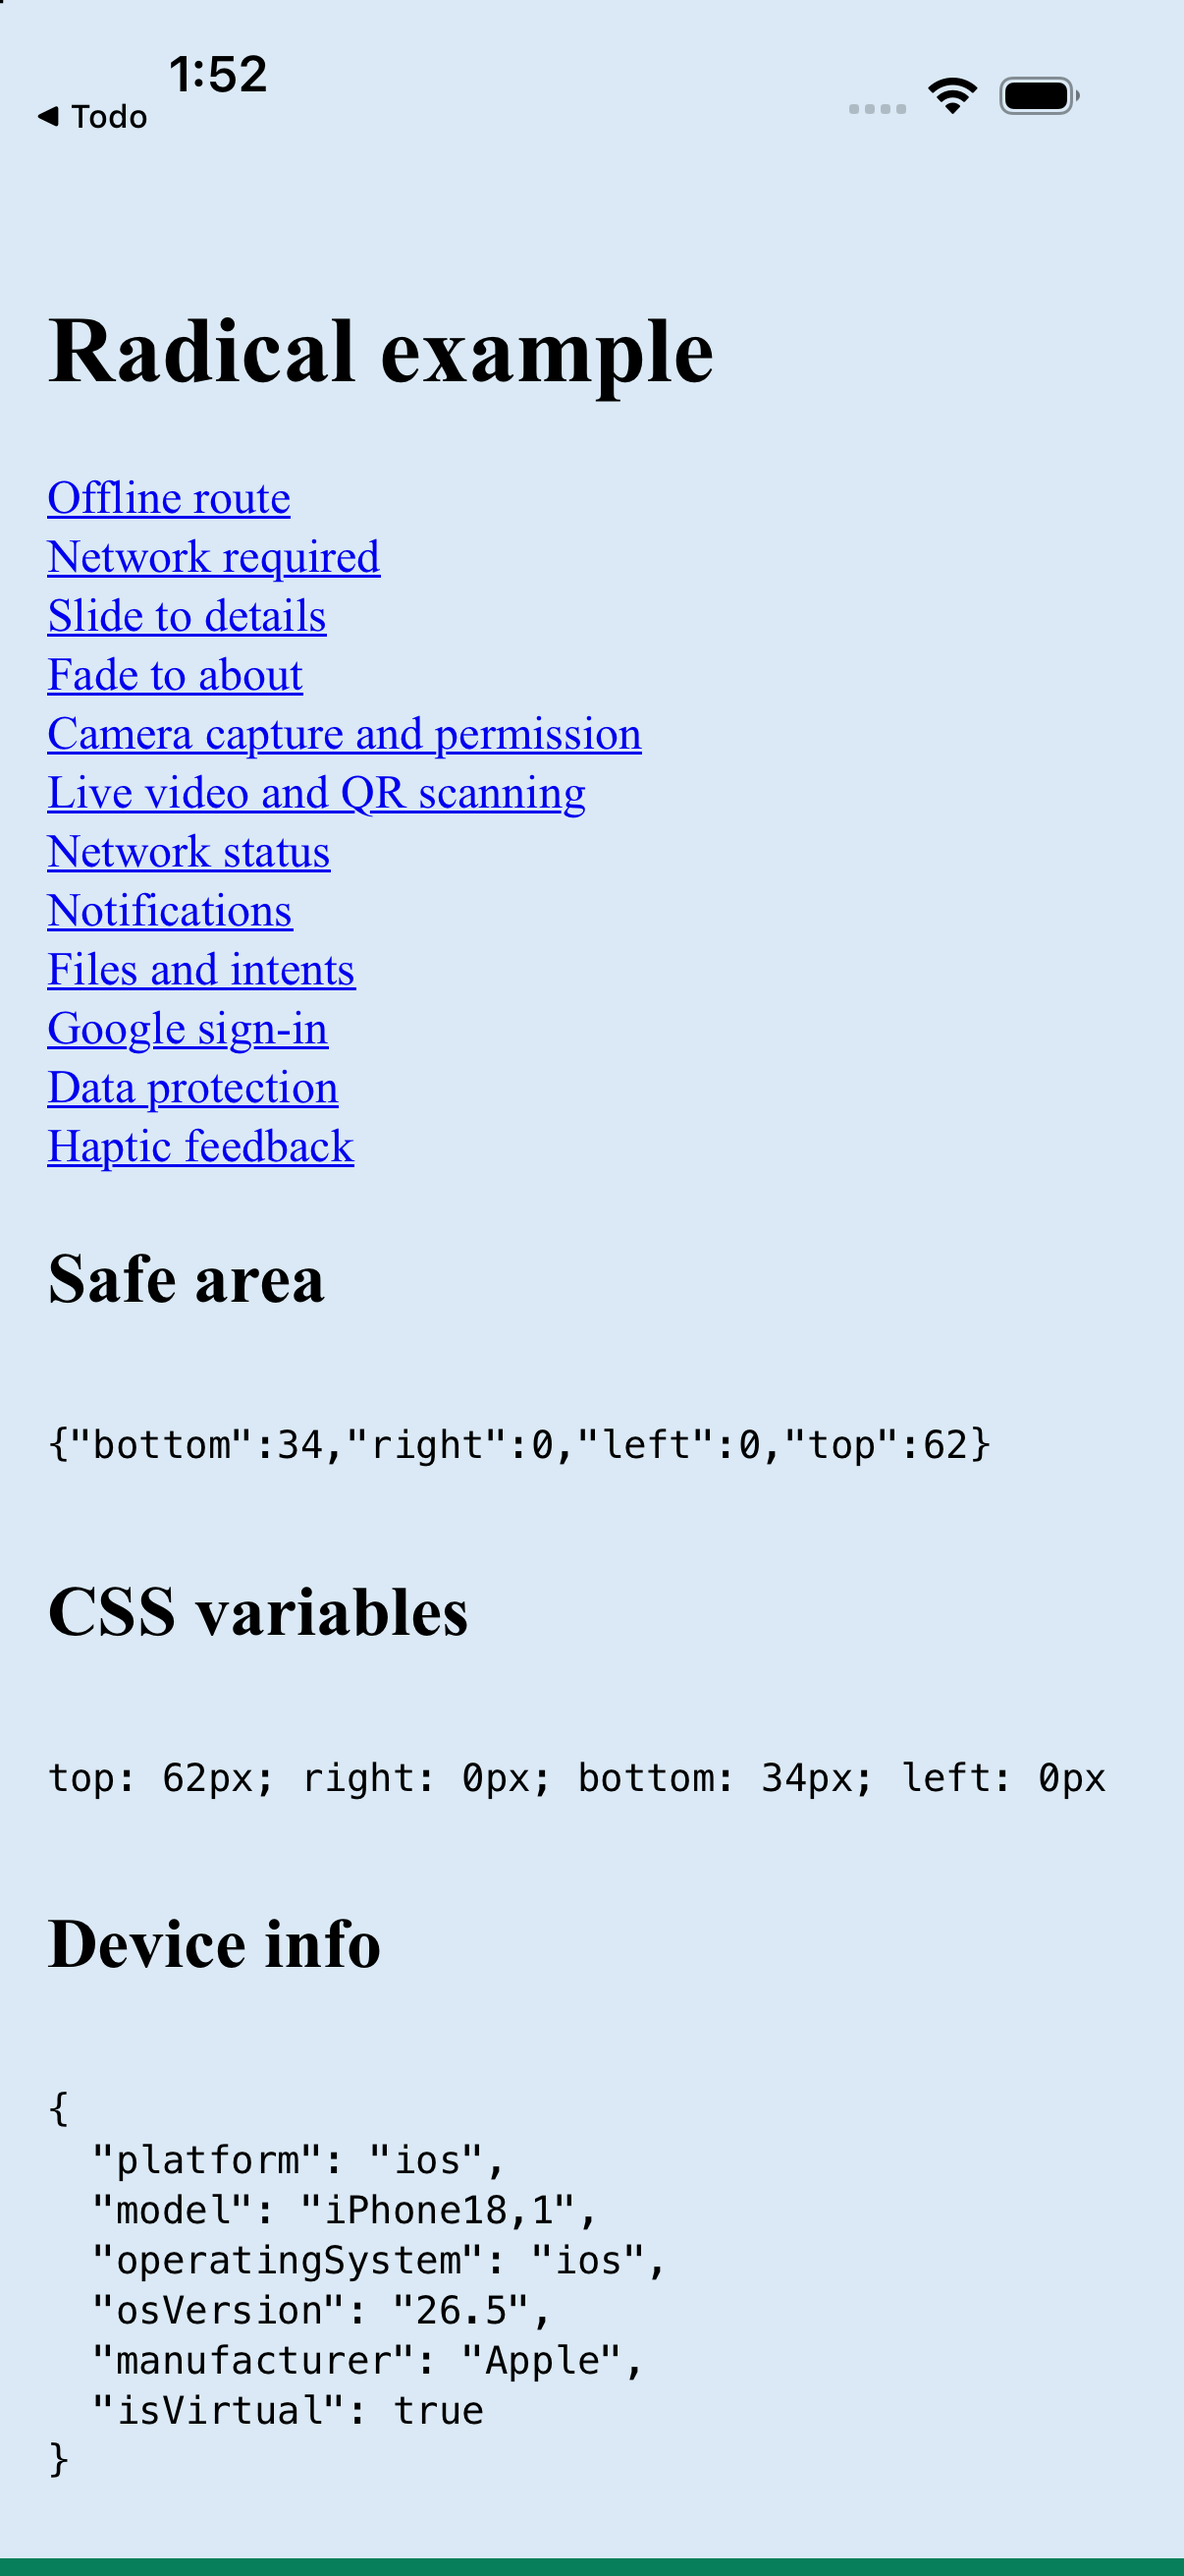
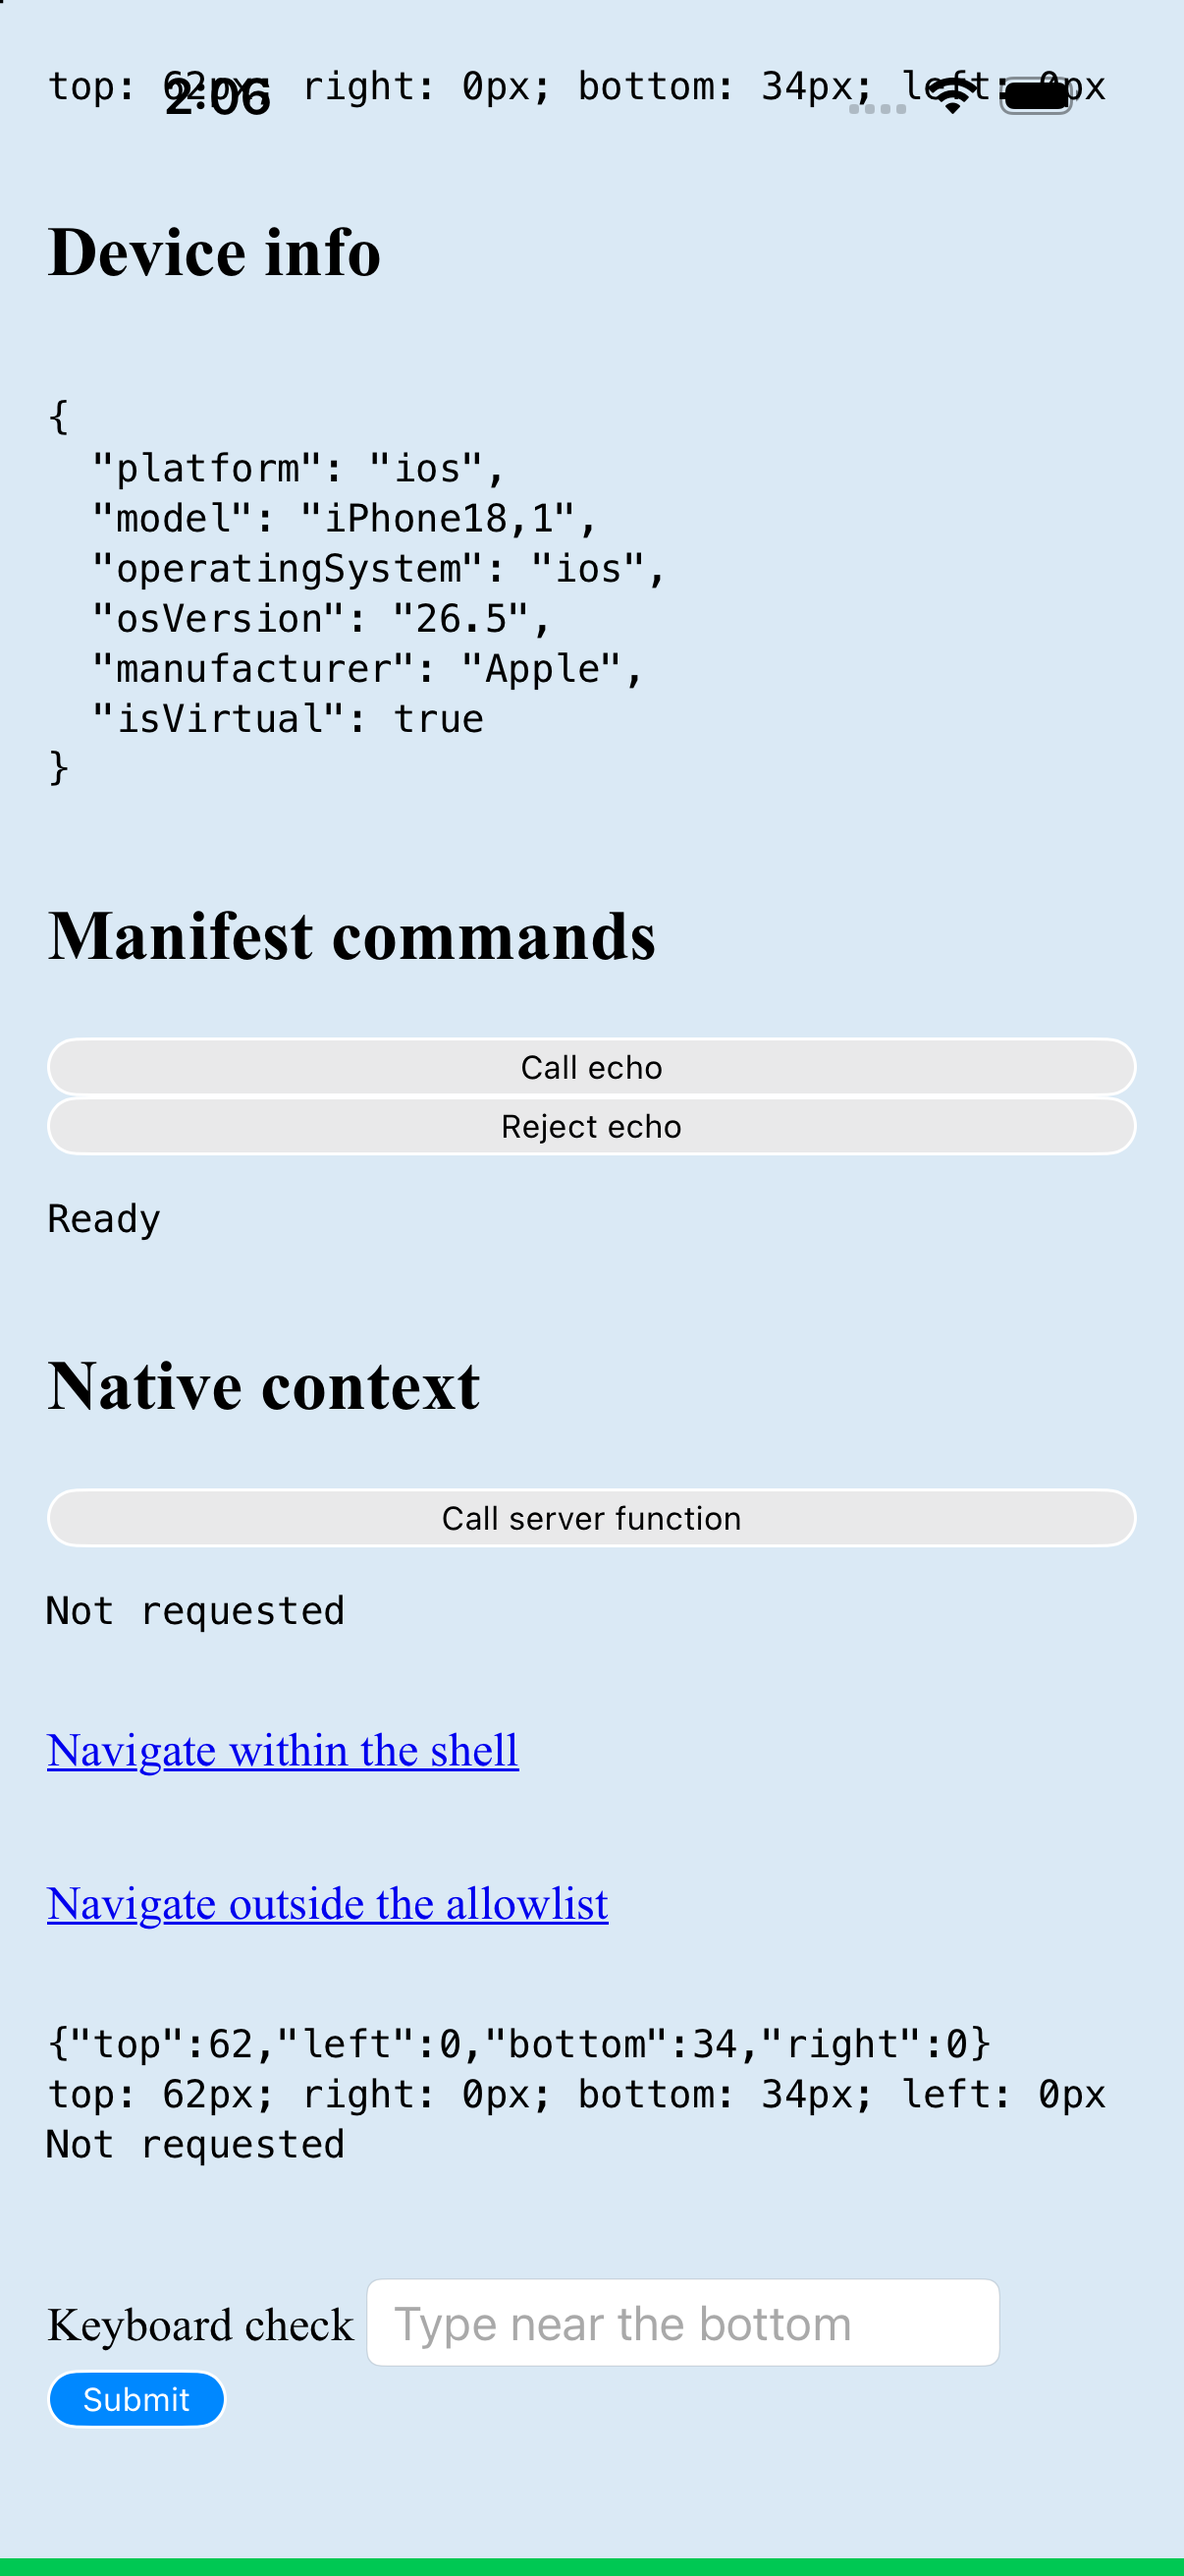
Refresh keyboard insets on layout changes

diff --git a/packages/radical/tests/native/ios/ios-generate.test.ts b/packages/radical/tests/native/ios/ios-generate.test.ts
@@ -338,17 +338,14 @@ describe("iOS shell generation", () => {
   );
 
   it.effect(
-    "emits keyboard-only insets without automatic safe-area adjustment",
+    "emits layout-aware docked keyboard insets without safe-area adjustment",
     () => {
       const state = memory();
 
       return Effect.gen(function* () {
         yield* generate;
         const source = state.files.get(appDelegate) ?? "";
-        assert.notInclude(
-          source,
-          "contentInsetAdjustmentBehavior = .automatic"
-        );
+        assert.notInclude(source, "contentInsetAdjustmentBehavior");
         assert.include(
           source,
           "UIResponder.keyboardWillChangeFrameNotification"
@@ -360,18 +357,36 @@ describe("iOS shell generation", () => {
         );
         assert.include(
           source,
-          "view.convert(frame, from: window.screen.coordinateSpace)"
+          "view.convert(frame, from: screen.coordinateSpace)"
         );
-        assert.include(
-          source,
-          "view.bounds.intersection(keyboardFrame).height"
-        );
+        assert.include(source, "keyboardFrame.maxY >= view.bounds.maxY - 1");
         assert.include(source, "scrollView.contentInset.bottom = height");
         assert.include(
           source,
           "scrollView.verticalScrollIndicatorInsets.bottom = height"
         );
-        assert.include(source, "updateKeyboardInset(0)");
+        assert.include(
+          source,
+          "max(0, view.bounds.maxY - keyboardFrame.minY) : 0"
+        );
+        assert.include(
+          source,
+          "let screen = (notification.object as? UIScreen) ?? window.screen"
+        );
+        assert.include(source, "keyboardEndFrame = frame");
+        assert.include(source, "keyboardScreen = screen");
+        assert.include(
+          source,
+          "screen === window.screen else {\n            updateKeyboardInset(0)"
+        );
+        assert.include(
+          source,
+          "keyboardEndFrame = nil\n        keyboardScreen = nil\n        updateKeyboardInset(0)"
+        );
+        assert.include(
+          source,
+          "super.viewDidLayoutSubviews()\n        laidOut = true\n        updateKeyboardInsetFromLayout()"
+        );
       }).pipe(Effect.provide(state.layer));
     }
   );

diff --git a/packages/radical/templates/ios/RadicalViewController.swift b/packages/radical/templates/ios/RadicalViewController.swift
@@ -13,6 +13,8 @@ final class RadicalViewController: CAPBridgeViewController {
     private var laidOut = false
     private var lastInsets: UIEdgeInsets?
     private var safeAreaScript: WKUserScript?
+    private var keyboardEndFrame: CGRect?
+    private var keyboardScreen: UIScreen?
 
     override func webViewConfiguration(for instanceConfiguration: InstanceConfiguration) -> WKWebViewConfiguration {
         let configuration = super.webViewConfiguration(for: instanceConfiguration)
@@ -67,13 +69,29 @@ final class RadicalViewController: CAPBridgeViewController {
     @objc private func keyboardWillChangeFrame(_ notification: Notification) {
         guard let window = view.window,
               let frame = notification.userInfo?[UIResponder.keyboardFrameEndUserInfoKey] as? CGRect else { return }
-        let keyboardFrame = view.convert(frame, from: window.screen.coordinateSpace)
-        let coveredHeight = view.bounds.intersection(keyboardFrame).height
-        updateKeyboardInset(coveredHeight)
+        let screen = (notification.object as? UIScreen) ?? window.screen
+        keyboardEndFrame = frame
+        keyboardScreen = screen
+        updateKeyboardInsetFromLayout()
     }
 
     @objc private func keyboardWillHide(_ notification: Notification) {
+        keyboardEndFrame = nil
+        keyboardScreen = nil
         updateKeyboardInset(0)
+    }
+
+    private func updateKeyboardInsetFromLayout() {
+        guard let window = view.window,
+              let frame = keyboardEndFrame, let screen = keyboardScreen,
+              screen === window.screen else {
+            updateKeyboardInset(0)
+            return
+        }
+        let keyboardFrame = view.convert(frame, from: screen.coordinateSpace)
+        let coveredHeight = keyboardFrame.maxY >= view.bounds.maxY - 1
+            ? max(0, view.bounds.maxY - keyboardFrame.minY) : 0
+        updateKeyboardInset(coveredHeight)
     }
 
     private func updateKeyboardInset(_ height: CGFloat) {
@@ -85,6 +103,7 @@ final class RadicalViewController: CAPBridgeViewController {
     override func viewDidLayoutSubviews() {
         super.viewDidLayoutSubviews()
         laidOut = true
+        updateKeyboardInsetFromLayout()
         updateSafeArea()
     }
 

diff --git a/docs/verification/safe-area.md b/docs/verification/safe-area.md
@@ -12,32 +12,39 @@ pnpm exec radical ios --target F69D9CE5-20E1-4388-9EBA-27B1782EEF75
 pnpm exec radical ios --target 88BEE7A3-757E-40C4-A789-5E3259B6B673
 ```
 
-The shipped approach uses scroll insets. The controller preserves Capacitor's default `.never`, observes keyboard will-change-frame and will-hide, converts screen coordinates into view coordinates, and applies the covered height to the bottom content and vertical indicator insets. Hide resets both to zero. Observers are removed on deinitialization. WebKit revealed the field and Submit on the inner display with these insets, so the frame-resize fallback was unnecessary. Safe-area reporting still reads only `view.safeAreaInsets`.
+The shipped approach uses scroll insets. The controller preserves Capacitor's default `.never` and stores the keyboard end frame with the notification's screen, falling back to the window screen. Keyboard notifications and `viewDidLayoutSubviews` both recalculate the covered height in view coordinates. A keyboard on another screen or one that does not reach the bottom produces zero inset. A docked keyboard sets the bottom content and vertical indicator insets to the height between its top and the view's bottom. Hide clears the stored frame and screen and resets both insets to zero. Observers are removed on deinitialization. WebKit revealed the field and Submit on the inner display with these insets, so the frame-resize fallback was unnecessary. Safe-area reporting still reads only `view.safeAreaInsets`.
 
-For verification, the example temporarily added a 6 px green `position: fixed; bottom: 0` marker and repeated its hook, CSS, and server cookie diagnostics immediately above the existing bottom form. Focusing the field requested the server context after one second, while the keyboard was visible. Those temporary page edits were restored after capture. The non-white page background is the example's existing `#dae9f5`.
+For verification, the example temporarily added a 6 px green `position: fixed; bottom: 0` marker and repeated its hook, CSS, and server cookie diagnostics immediately above the existing bottom form. Focusing the field requested the server context after one second, while the keyboard was visible. The server request was allowed to settle before repeating focus, so changing diagnostic text did not move the form during the keyboard check. Those temporary page edits were restored after capture. The non-white page background is the example's existing `#dae9f5`.
 
-- **Pass:** iPhone 17 Pro has no white strip under the home indicator. The fixed green marker reaches the bottom screen edge.
+- **Pass:** iPhone 17 Pro has no white strip under the home indicator. The page is scrolled to the bottom form, and the fixed green marker reaches the bottom screen edge.
 - **Pass:** Duo inner display, 951 × 669 points, reveals both the focused field and Submit above the keyboard.
 - **Pass:** Duo cover portrait, 466 × 678 points, reveals the focused field and Submit above the keyboard.
-- **Not run:** Duo cover landscape. Both `orientation landscape-left` and `orientation landscape-right` reported success, but display 1 remained 1398 × 2034 pixels with the portrait keyboard. The attempted-rotation capture below is evidence of this limitation, not a landscape pass.
+- **Not run:** Duo cover landscape. The round 2 Device-menu retry could not run because this Xcode installation has no Simulator app at `/Applications/Xcode.app/Contents/Developer/Applications/Simulator.app`, and AppleScript could not find a Simulator process. In round 1, both `orientation landscape-left` and `orientation landscape-right` reported success, but display 1 remained 1398 × 2034 pixels with the portrait keyboard. The attempted-rotation capture below is evidence of this limitation, not a landscape pass.
 - **Pass:** dismissing the inner-display keyboard restores the full page without a bottom gap.
+- **Pass:** folding from inner to cover with the keyboard open preserves focus and keeps the field and Submit above the keyboard. The cover capture is 1398 × 2034 pixels. Unfolding also preserves focus and keeps both controls above the keyboard, though the page remains scrolled higher than necessary until dismissal. Dismissing after unfolding restores the full background without a gap.
 - **Pass:** inner-display hook, CSS, and the server's cookie-derived context remain `top: 0, right: 84, bottom: 34, left: 0` while the keyboard is open and after dismissal.
 
-The devices were opened in the T3 Device panel and driven with agent-device. Fold commands sent the hinge event but returned `CoreDevice reported no hinge angle sample: Unknown option '--device'`. Panel changes were confirmed from the active screenshot and its dimensions; hinge angles remain unverified. Capture Duo cover with `xcrun simctl io <UDID> screenshot --display=1 <path>` and inner with `--display=3`. The default display can be black on the inactive panel.
+The devices were opened in the T3 Device panel and driven with agent-device. Fold commands sent the hinge event but returned `CoreDevice reported no hinge angle sample: Unknown option '--device'`. Panel changes were confirmed from explicit display screenshots and their dimensions; hinge angles remain unverified. The default Device panel stream was black after folding, while the explicit cover screenshot showed the app and keyboard. Capture Duo cover with `xcrun simctl io <UDID> screenshot --display=1 <path>` and inner with `--display=3`. The default display can be black on the inactive panel.
 
 ![iPhone 17 Pro background and fixed marker reach the bottom edge](safe-area/ios-17-pro-edge-no-strip.png)
 
-![Duo inner field, Submit, and unchanged safe-area diagnostics above the keyboard](safe-area/ios-duo-inner-keyboard-inset.png)
+![Duo inner field and Submit above the keyboard with unchanged server safe-area values](safe-area/ios-duo-inner-keyboard-inset.png)
 
 ![Duo inner after keyboard dismissal with no bottom gap](safe-area/ios-duo-inner-dismissed-no-gap.png)
 
 ![Duo cover portrait field and Submit above the keyboard](safe-area/ios-duo-cover-portrait-keyboard.png)
 
-![Attempted cover landscape rotation still produces a portrait screen](safe-area/ios-duo-cover-landscape-attempt-still-portrait.png)
+![Round 1 attempted cover landscape rotation still produces a portrait screen](safe-area/ios-duo-cover-landscape-attempt-still-portrait.png)
+
+![Duo after folding to the cover with focus and keyboard preserved](safe-area/ios-duo-fold-keyboard-cover.png)
+
+![Duo after unfolding and dismissing the keyboard with no gap](safe-area/ios-duo-unfold-dismissed-no-gap.png)
 
 The earlier `.automatic` fix restored keyboard scrolling but also added UIKit's bottom safe-area inset on top of CSS padding. The explicit keyboard insets replace that setting. The historical regression capture remains available as [the field hidden with no keyboard handling](safe-area/ios-keyboard-before.png).
 
 ## Android keyboard
+
+Verified on 2026-10-20 with Pixel_9, Android 16, using the remote-mode example.
 
 The viewport shrinks from 924 to 588 CSS pixels. The focused input ends at 550.87 and Submit ends at 572.30, both above the keyboard. The hook and CSS bottom inset become zero during input and return to 24 after dismissal. The body background extends under the system bars, and the WebView starts at window coordinate zero. Neither platform logged a hydration warning on the fresh CLI runs. Rebuilding the library while the Android keyboard inset changes can still produce a development HMR hydration warning; clean launches after restarting the dev server passed.
 

diff --git a/docs/safe-area.md b/docs/safe-area.md
@@ -18,6 +18,6 @@ On changes, both shells refresh the HttpOnly cookie before publishing a `radical
 
 ## Capacitor inset ownership
 
-Capacitor 8's Android `SystemBars.injectSafeAreaCSS` changes the root element's inline style after page commit. React then sees attributes absent from SSR and reports a hydration mismatch. Generated shells set `plugins.SystemBars.insetsHandling` to `disable`, which disables that injection and Capacitor's inset padding. Radical owns both cookie values and CSS updates. Its Android listener pads the window by the visible IME height, which resizes the WebView so focused controls can scroll above the keyboard. While the IME is visible, the bottom safe area is zero because the keyboard padding already excludes the navigation bar. Closing the keyboard removes that padding and restores the system-bar inset. Keyboard height never enters the cookie. The iOS SystemBars plugin does not inject safe-area styles. Radical keeps Capacitor's default `contentInsetAdjustmentBehavior = .never`. UIKit adds no native safe-area padding, so the page applies that padding once through CSS. The controller observes keyboard frame changes and hide notifications. It converts the keyboard frame from the window screen's coordinate space into the view, then sets the scroll view's bottom content and vertical indicator insets to the intersection height. Hiding the keyboard resets both to zero. The controller removes its observers on deinitialization.
+Capacitor 8's Android `SystemBars.injectSafeAreaCSS` changes the root element's inline style after page commit. React then sees attributes absent from SSR and reports a hydration mismatch. Generated shells set `plugins.SystemBars.insetsHandling` to `disable`, which disables that injection and Capacitor's inset padding. Radical owns both cookie values and CSS updates. Its Android listener pads the window by the visible IME height, which resizes the WebView so focused controls can scroll above the keyboard. While the IME is visible, the bottom safe area is zero because the keyboard padding already excludes the navigation bar. Closing the keyboard removes that padding and restores the system-bar inset. Keyboard height never enters the cookie. The iOS SystemBars plugin does not inject safe-area styles. Radical keeps Capacitor's default `contentInsetAdjustmentBehavior = .never`. UIKit adds no native safe-area padding, so the page applies that padding once through CSS. The controller observes keyboard frame changes and hide notifications. It stores the keyboard's screen and end frame, then converts that screen's coordinates into the view. Notifications and view layout both recalculate the scroll view's bottom content and vertical indicator insets. A keyboard on another screen or a floating keyboard that does not reach the view's bottom produces zero inset. A docked keyboard produces the height between its top and the view's bottom. Hiding the keyboard clears the stored geometry and resets both insets to zero. The controller removes its observers on deinitialization.
 
 The WebView remains the full-window root view. Explicit scroll insets let WebKit reveal the bottom field and Submit on the Duo inner display, so frame resizing is unnecessary. Keyboard geometry never enters `view.safeAreaInsets`, the hook, the cookie, or the CSS variables. See the [simulator verification](verification/safe-area.md) for screenshots and the cover landscape tooling limitation.
